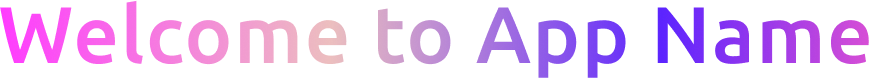
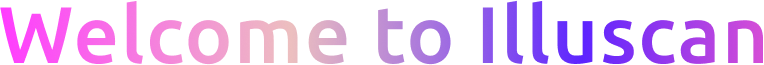
revised UI

diff --git a/app.py b/app.py
@@ -42,7 +42,7 @@ class Ui_MainWindow(QMainWindow):
 
         #Get Started Button
         self.getStarted = QtWidgets.QPushButton(parent=self.centralwidget)
-        self.getStarted.setGeometry(QtCore.QRect(440, 190, 121, 51))
+        self.getStarted.setGeometry(QtCore.QRect(440, 330, 121, 51))
         self.getStarted.setStyleSheet("* {\n""background: transparent;\n""}")
         self.getStarted.setText("")
         icon = QtGui.QIcon()
@@ -251,8 +251,8 @@ class Ui_MainWindow(QMainWindow):
 
     def retranslateUi(self, MainWindow):
         _translate = QtCore.QCoreApplication.translate
-        MainWindow.setWindowTitle(_translate("MainWindow", "MainWindow"))
-        self.logoName.setText(_translate("MainWindow", "Logo/App Name"))
+        MainWindow.setWindowTitle(_translate("MainWindow", "illuscan"))
+        self.logoName.setText(_translate("MainWindow", "illuscan"))
         self.homeBar.setText(_translate("MainWindow", "Home"))
         self.datasetBar.setText(_translate("MainWindow", "Dataset"))
         self.modelBar.setText(_translate("MainWindow", "Model"))
@@ -260,14 +260,14 @@ class Ui_MainWindow(QMainWindow):
         self.aboutBar.setText(_translate("MainWindow", "About"))
 
     def setWelcomePage(self):
-        MainWindow.setStyleSheet("#centralwidget {\n""background-image: url(resources/Get Started.jpg);\n""}")
-        self.icon.show()
+        MainWindow.setStyleSheet("#centralwidget {\n""background-image: url(resources/Home page.png);\n""}")
+        self.icon.hide()
         self.getStarted.show()
-        self.title.show()
-        self.gallery1.show()
-        self.gallery2.show()
-        self.eye1.show()
-        self.eye2.show()
+        self.title.hide()
+        self.gallery1.hide()
+        self.gallery2.hide()
+        self.eye1.hide()
+        self.eye2.hide()
         self.aboutBar.clicked.connect(self.setAboutPage)
         self.imageLabel.hide()
         self.resultLabel.hide()
@@ -284,16 +284,18 @@ class Ui_MainWindow(QMainWindow):
         self.eye4.hide()
         self.notif.hide()
         self.getStarted.clicked.connect(self.setHomePage)
+        #MainWindow.setStyleSheet("#centralwidget {\n""background-image: url(resources/Get Started.jpg);\n""}")
         self.aboutBar.clicked.connect(self.setAboutPage)
 
     def setAboutPage(self):
-        self.icon.hide()
+        MainWindow.setStyleSheet("#centralwidget {\n""background-image: url(resources/Get Started.jpg);\n""}")
+        self.icon.show()
         self.getStarted.hide()
-        self.title.hide()
-        self.gallery1.hide()
-        self.gallery2.hide()
-        self.eye1.hide()
-        self.eye2.hide()
+        self.title.show()
+        self.gallery1.show()
+        self.gallery2.show()
+        self.eye1.show()
+        self.eye2.show()
         self.imageLabel.hide()
         self.resultLabel.hide()
         self.aibutton.hide()
@@ -307,10 +309,12 @@ class Ui_MainWindow(QMainWindow):
         self.aboutBar_2.hide()
         self.uploadLabel.hide()
         self.notif.hide()
-        MainWindow.setStyleSheet("#centralwidget {\n""background-image: url(resources/About Page.png);\n""}")
         self.homeBar.clicked.connect(self.setWelcomePage)
 
     def setHomePage(self):
+        MainWindow.setStyleSheet("#centralwidget {\n""background-image: url(resources/Get Started.jpg);\n""}")
+        self.icon.hide()
+        self.getStarted.hide()
         self.icon.hide()
         self.getStarted.hide()
         self.title.hide()
